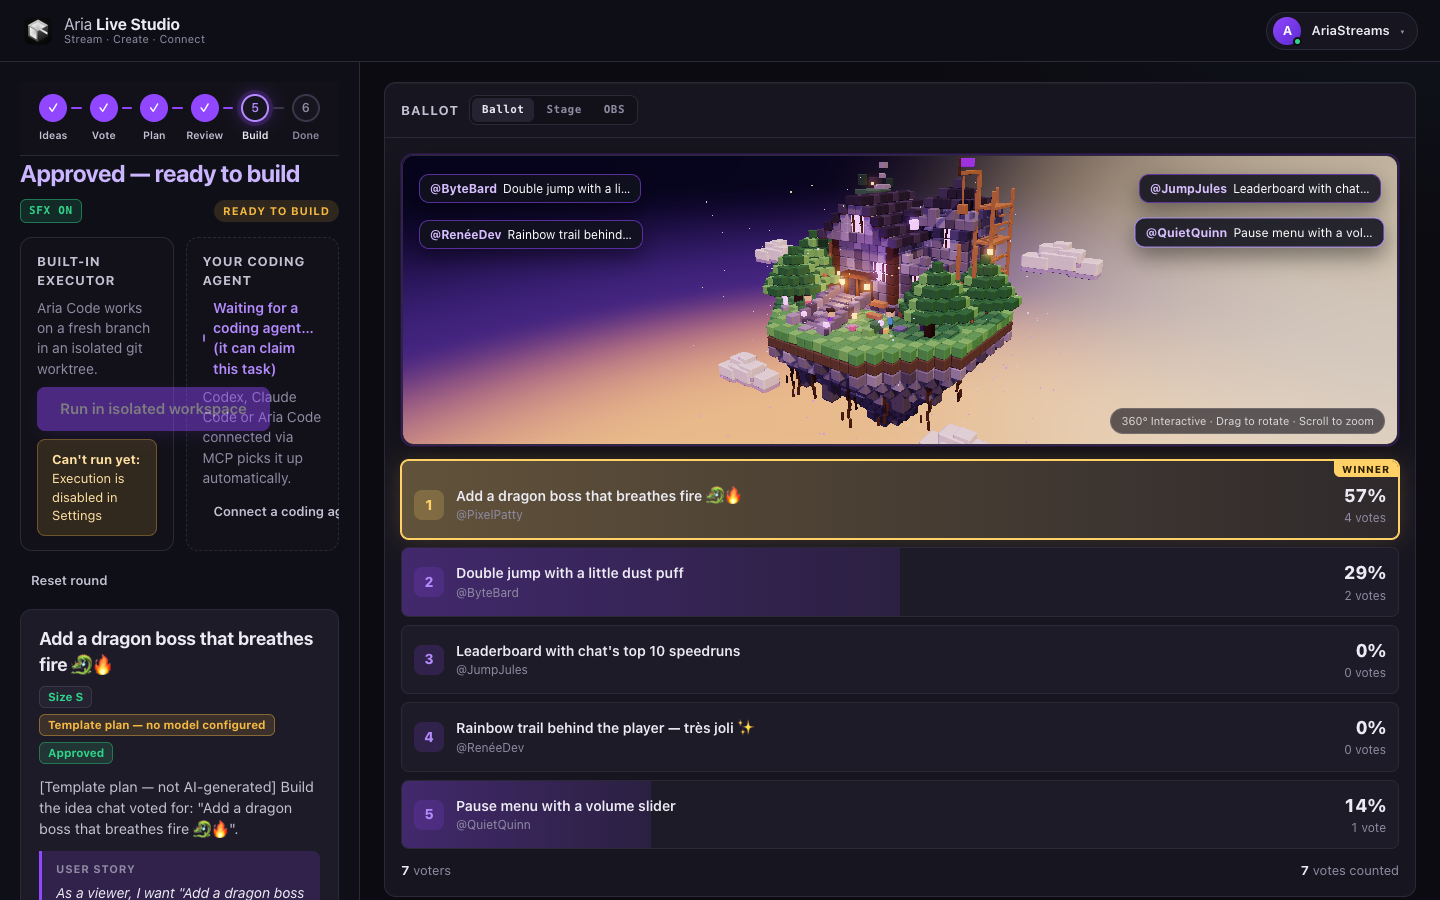
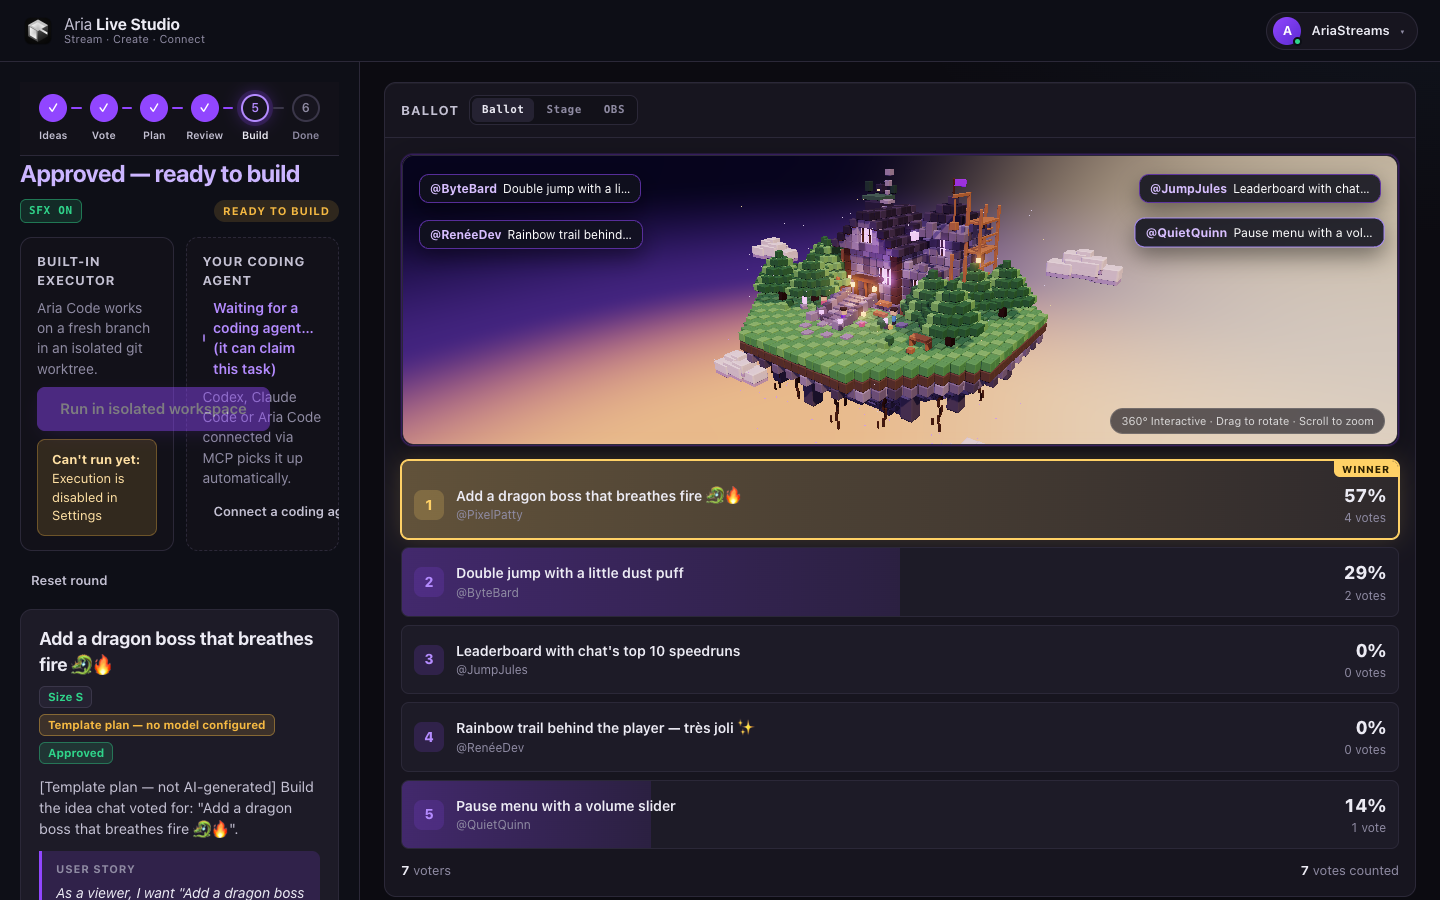
feat(web): expand 3D island ground to 33x33 with outer pine grove, plaza, and workbench

Changed region(s): [[0.5, 0.1556, 0.7812, 0.4978]]

diff --git a/packages/web/src/dashboard/LiveStageCanvas.tsx b/packages/web/src/dashboard/LiveStageCanvas.tsx
@@ -140,12 +140,12 @@ export function LiveStageCanvas({
     const scene = new THREE.Scene();
     scene.fog = new THREE.FogExp2(0x22173b, 0.0055);
 
-    // Classic isometric pitch matching voxel-workshop.jpg (frames deep cliff cone, roots, and castle spire)
+    // Classic isometric pitch framing the spacious 33x33 floating island, deep cliff cone, and castle
     const camera = new THREE.PerspectiveCamera(36, width / height, 0.1, 160);
     if (compact) {
-      camera.position.set(16.2, 8.2, 16.6);
+      camera.position.set(18.6, 9.6, 19.0);
     } else {
-      camera.position.set(15.4, 7.6, 15.8);
+      camera.position.set(17.8, 9.2, 18.2);
     }
 
     const composer = new EffectComposer(renderer);
@@ -159,10 +159,10 @@ export function LiveStageCanvas({
     controls.dampingFactor = 0.06;
     controls.autoRotate = true;
     controls.autoRotateSpeed = 0.12;
-    controls.minDistance = 7.0;
-    controls.maxDistance = 26;
+    controls.minDistance = 8.0;
+    controls.maxDistance = 30;
     controls.maxPolarAngle = Math.PI * 0.49;
-    controls.target.set(0.45, compact ? 0.65 : 0.45, -0.35);
+    controls.target.set(0.35, compact ? 0.65 : 0.45, -0.25);
 
     // Twilight sky dome mapped to the isometric camera view (dir.y spans -0.60 at bottom to +0.05 at top)
     const skyGeo = new THREE.SphereGeometry(76, 24, 16);
@@ -314,16 +314,16 @@ export function LiveStageCanvas({
       }
     };
 
-    // 1. High-density 24x24 Floating Cliff Island (stepped stone cliff, dirt, 2-tier mossy grass)
-    for (let gx = -11; gx <= 11; gx++) {
-      for (let gz = -11; gz <= 11; gz++) {
+    // 1. Spacious 33x33 Floating Cliff Island (over 2x ground area: plaza, grove, workshop yard)
+    for (let gx = -16; gx <= 16; gx++) {
+      for (let gz = -16; gz <= 16; gz++) {
         const x = gx * u;
         const z = gz * u;
         const dist = Math.abs(gx) + Math.abs(gz);
         const maxC = Math.max(Math.abs(gx), Math.abs(gz));
-        if (maxC > 11 || dist > 16) continue;
+        if (maxC > 16 || dist > 23) continue;
 
-        const onUpperTerrace = gx >= -5 && gx <= 6 && gz >= -6 && gz <= 2;
+        const onUpperTerrace = gx >= -6 && gx <= 7 && gz >= -7 && gz <= 2;
         if (onUpperTerrace) {
           pushStone(x, 0.5, z);
           pushStone(x, 0.0, z);
@@ -332,48 +332,51 @@ export function LiveStageCanvas({
           else grassSpecs.push({ x, y: 0.0, z });
         }
 
-        // Deep craggy inverted-cone cliff underside matching voxel-workshop.jpg
-        if (dist <= 16) dirtSpecs.push({ x, y: -0.5, z });
-        if (dist <= 16 && (maxC <= 10 || (gx + gz) % 2 === 0)) pushStone(x, -1.0, z);
-        if (dist <= 15 && maxC <= 10) pushStone(x, -1.5, z);
-        if (dist <= 14 && maxC <= 9) stoneDarkSpecs.push({ x, y: -2.0, z });
-        if (dist <= 13 && maxC <= 8) pushStone(x, -2.5, z);
-        if (dist <= 11 && maxC <= 7) stoneDarkSpecs.push({ x, y: -3.0, z });
-        if (dist <= 9 && maxC <= 6) stoneDarkSpecs.push({ x, y: -3.5, z });
-        if (dist <= 7 && maxC <= 5) stoneDarkSpecs.push({ x, y: -4.0, z });
-        if (dist <= 5 && maxC <= 4) stoneDarkSpecs.push({ x, y: -4.5, z });
-        if (dist <= 4 && maxC <= 3) stoneDarkSpecs.push({ x, y: -5.0, z });
-        if (dist <= 3) stoneDarkSpecs.push({ x, y: -5.5, z });
-        if (dist <= 2) stoneDarkSpecs.push({ x, y: -6.0, z });
-        if (dist <= 1) stoneDarkSpecs.push({ x, y: -6.5, z });
+        // Deep craggy inverted-cone cliff underside matching the wider 33x33 island
+        if (dist <= 23) dirtSpecs.push({ x, y: -0.5, z });
+        if (dist <= 23 && (maxC <= 15 || (gx + gz) % 2 === 0)) pushStone(x, -1.0, z);
+        if (dist <= 21 && maxC <= 14) pushStone(x, -1.5, z);
+        if (dist <= 19 && maxC <= 13) stoneDarkSpecs.push({ x, y: -2.0, z });
+        if (dist <= 17 && maxC <= 11) pushStone(x, -2.5, z);
+        if (dist <= 15 && maxC <= 10) stoneDarkSpecs.push({ x, y: -3.0, z });
+        if (dist <= 13 && maxC <= 9) stoneDarkSpecs.push({ x, y: -3.5, z });
+        if (dist <= 10 && maxC <= 7) stoneDarkSpecs.push({ x, y: -4.0, z });
+        if (dist <= 8 && maxC <= 6) stoneDarkSpecs.push({ x, y: -4.5, z });
+        if (dist <= 6 && maxC <= 4) stoneDarkSpecs.push({ x, y: -5.0, z });
+        if (dist <= 4 && maxC <= 3) stoneDarkSpecs.push({ x, y: -5.5, z });
+        if (dist <= 3) stoneDarkSpecs.push({ x, y: -6.0, z });
+        if (dist <= 2) stoneDarkSpecs.push({ x, y: -6.5, z });
+        if (dist <= 1) stoneDarkSpecs.push({ x, y: -7.0, z });
       }
     }
     // Irregular corner rock stalactites, hanging moss lips & branched wooden cliff roots
     for (const [rx, rz] of [
-      [-4.0, 2.5],
-      [4.0, 2.0],
-      [2.5, -4.0],
-      [-3.5, -3.5],
-      [0.0, 4.5],
-      [-2.0, 4.2],
-      [3.2, 3.4],
+      [-6.2, 3.5],
+      [6.2, 3.0],
+      [3.5, -6.2],
+      [-5.2, -5.2],
+      [0.0, 6.8],
+      [-3.2, 6.2],
+      [4.8, 5.0],
+      [-6.8, -1.0],
+      [6.8, -1.5],
       [0.2, 0.2],
     ] as const) {
-      stoneDarkSpecs.push({ x: rx, y: -2.5, z: rz, sx: 1.4, sy: 2.8, sz: 1.4 });
-      mossSpecs.push({ x: rx, y: -0.45, z: rz, sx: 1.0, sy: 1.4, sz: 1.0 });
+      stoneDarkSpecs.push({ x: rx, y: -2.5, z: rz, sx: 1.5, sy: 3.0, sz: 1.5 });
+      mossSpecs.push({ x: rx, y: -0.45, z: rz, sx: 1.1, sy: 1.4, sz: 1.1 });
     }
-    // Branched primary + secondary roots dangling below the floating island
+    // Branched primary + secondary roots dangling below the wider floating island
     for (const [vx, vz, len] of [
-      [-4.4, 2.8, 5],
-      [-3.6, 3.8, 6],
-      [-2.2, 4.6, 5],
-      [-0.8, 4.9, 4],
-      [1.2, 4.7, 6],
-      [2.8, 4.1, 5],
-      [4.2, 2.8, 6],
-      [4.8, 1.2, 4],
-      [-4.8, 0.8, 5],
-      [0.4, 3.4, 6],
+      [-6.2, 3.8, 5],
+      [-5.0, 5.2, 6],
+      [-3.2, 6.4, 5],
+      [-1.0, 7.0, 4],
+      [1.6, 6.8, 6],
+      [3.8, 5.8, 5],
+      [5.8, 4.0, 6],
+      [6.8, 1.6, 4],
+      [-6.8, 1.2, 5],
+      [0.4, 5.0, 6],
     ] as const) {
       for (let k = 0; k < len; k++) {
         timberSpecs.push({
@@ -625,7 +628,18 @@ export function LiveStageCanvas({
       { x: -4.0, y: 1.0, z: 2.6, sx: 0.78, sy: 2.8, sz: 0.78 },
       { x: 4.1, y: 1.0, z: 2.6, sx: 0.78, sy: 2.8, sz: 0.78 },
       { x: -2.2, y: 0.95, z: -4.0, sx: 0.72, sy: 2.4, sz: 0.72 },
+      { x: -6.0, y: 1.05, z: -0.4, sx: 0.82, sy: 3.0, sz: 0.82 },
+      { x: -5.8, y: 0.95, z: 3.6, sx: 0.76, sy: 2.6, sz: 0.76 },
+      { x: 5.9, y: 1.0, z: 3.3, sx: 0.78, sy: 2.8, sz: 0.78 },
+      { x: 6.4, y: 1.05, z: -1.6, sx: 0.78, sy: 2.8, sz: 0.78 },
     ];
+    // Outdoor workshop workbench & stool on the expanded right lawn
+    scaffSpecs.push(
+      { x: 4.8, y: 0.72, z: 4.2, sx: 2.1, sy: 0.35, sz: 1.1 },
+      { x: 4.35, y: 0.45, z: 4.2, sx: 0.32, sy: 0.8, sz: 0.85 },
+      { x: 5.25, y: 0.45, z: 4.2, sx: 0.32, sy: 0.8, sz: 0.85 },
+      { x: 4.8, y: 0.4, z: 5.0, sx: 0.6, sy: 0.5, sz: 0.6 },
+    );
     const addFineTree = (cx: number, baseY: number, cz: number, tiers: number) => {
       for (let t = 0; t < tiers; t++) {
         const r = tiers - t;
@@ -653,14 +667,21 @@ export function LiveStageCanvas({
     addFineTree(4.3, 1.6, 2.4, 4);
     addFineTree(5.1, 1.5, -0.4, 4);
     addFineTree(-2.3, 1.6, -4.1, 4);
+    addFineTree(-6.0, 1.65, -0.4, 4);
+    addFineTree(-5.8, 1.45, 3.6, 4);
+    addFineTree(5.9, 1.55, 3.3, 4);
+    addFineTree(6.4, 1.6, -1.6, 4);
 
-    // Shrubs & courtyard stepping stones
+    // Shrubs & expanded courtyard stepping stones
     for (const [sx, sz] of [
       [-3.1, 3.6],
       [-2.4, 4.1],
       [1.8, 3.8],
       [3.2, 0.9],
       [4.2, -0.4],
+      [-4.6, 4.4],
+      [3.4, 5.2],
+      [5.4, 1.4],
     ] as const) {
       mossSpecs.push({ x: sx, y: 0.38, z: sz, sx: 1.05, sy: 0.9, sz: 1.05 });
       pineSpecs.push({ x: sx + 0.22, y: 0.62, z: sz - 0.14, sx: 0.72, sy: 0.72, sz: 0.72 });
@@ -671,6 +692,10 @@ export function LiveStageCanvas({
       [0.6, 3.6],
       [1.6, 3.1],
       [2.5, 2.5],
+      [-1.6, 5.6],
+      [-0.8, 6.2],
+      [0.2, 5.8],
+      [1.2, 5.4],
     ] as const) {
       stoneLightSpecs.push({ x: cx, y: 0.28, z: cz, sx: 1.05, sy: 0.25, sz: 1.05 });
     }
@@ -859,10 +884,10 @@ export function LiveStageCanvas({
         });
       }
     };
-    addVoxelCloud(-7.6, 1.9, 0.6, 1.15);
-    addVoxelCloud(7.6, 2.8, -3.2, 1.2);
-    addVoxelCloud(-6.8, -4.1, 4.2, 1.3);
-    addVoxelCloud(6.6, -3.9, 3.8, 1.25);
+    addVoxelCloud(-9.8, 2.2, 0.8, 1.2);
+    addVoxelCloud(9.8, 3.1, -3.6, 1.25);
+    addVoxelCloud(-8.8, -4.8, 5.2, 1.35);
+    addVoxelCloud(8.6, -4.5, 4.8, 1.3);
     bgIslands.add(buildVoxelInstances(voxelGeo, cloudShadeMat, cloudBotSpecs, false, false));
     bgIslands.add(buildVoxelInstances(voxelGeo, cloudLightMat, cloudTopSpecs, false, false));
 
